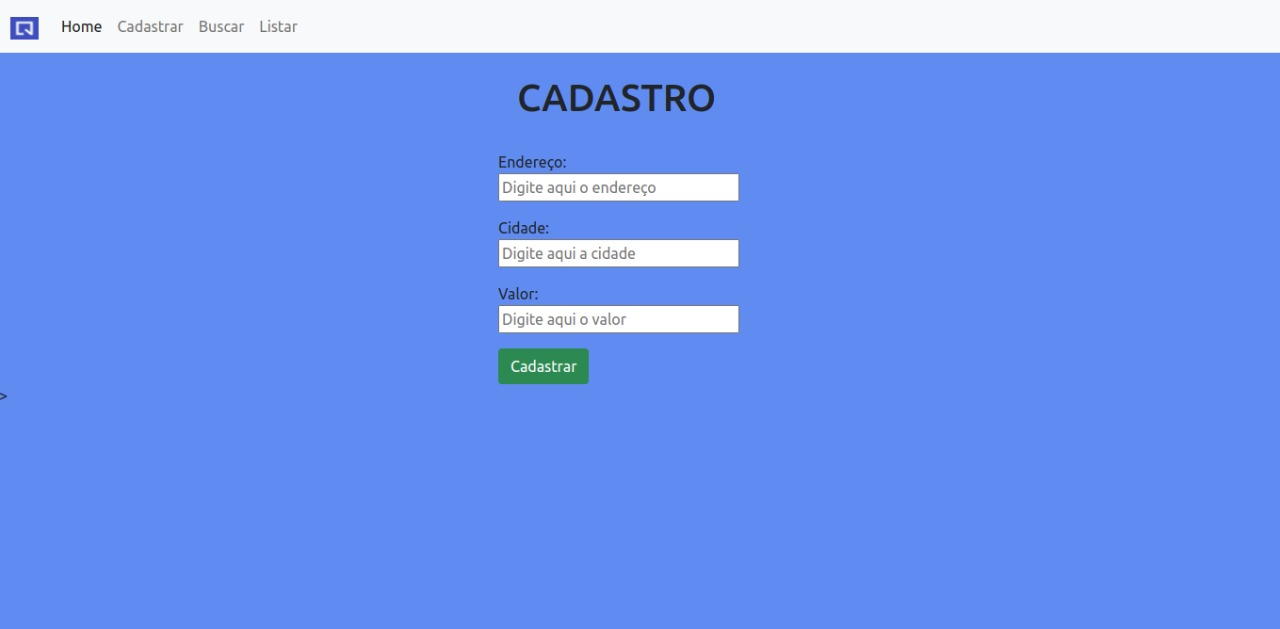
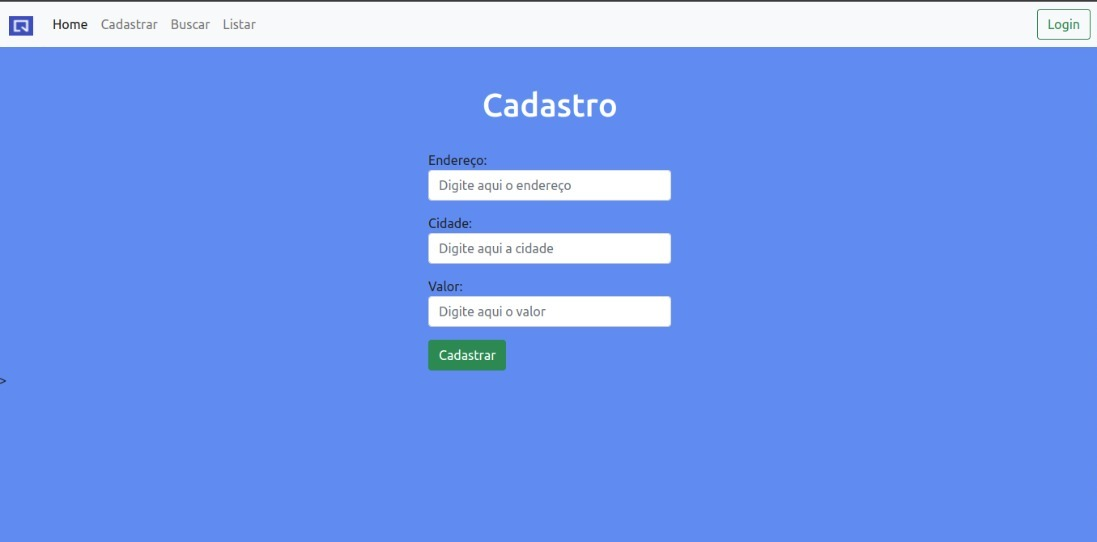
editar e login 2

Changed region(s): [[0.3719, 0.2362, 0.6199, 0.7085], [0.0, 0.0, 1.0, 0.0886], [0.4029, 0.1181, 0.5579, 0.2362]]

diff --git a/README.md b/README.md
@@ -16,5 +16,5 @@
 
 ### Screenshot
 <h1> 
-<img alt="demoimage" title ="demoimage"  src ='./demoimage.jpg'/> 
+<img alt="demoimage" title ="demoimage"  src ='static/demoimage.jpg'/> 
 </h1>
